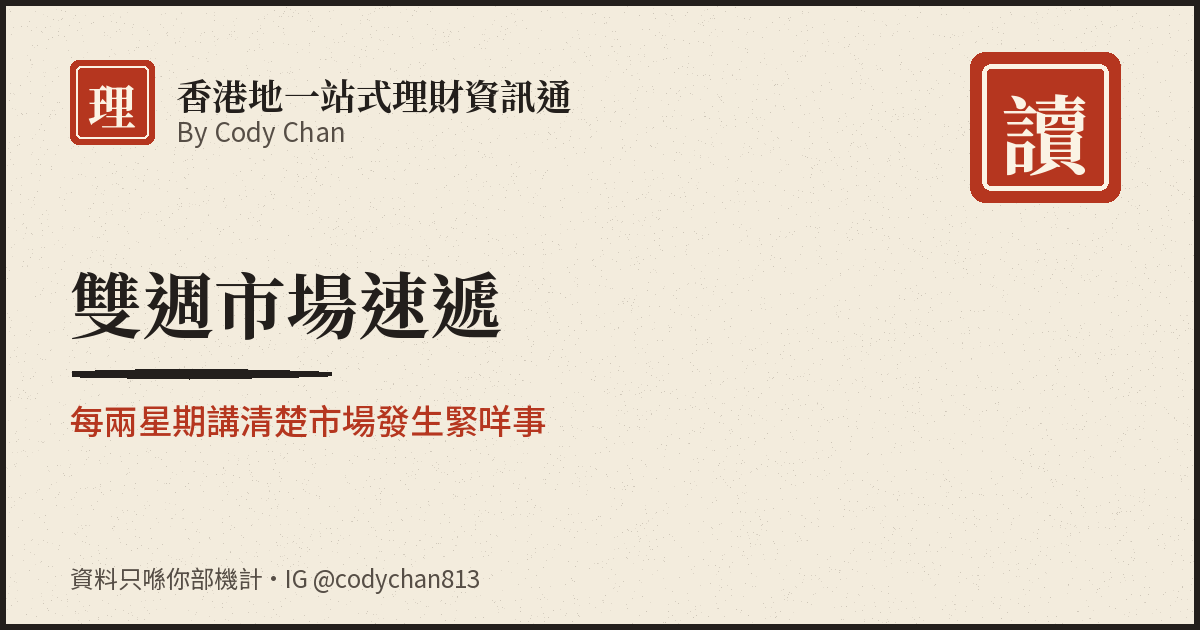
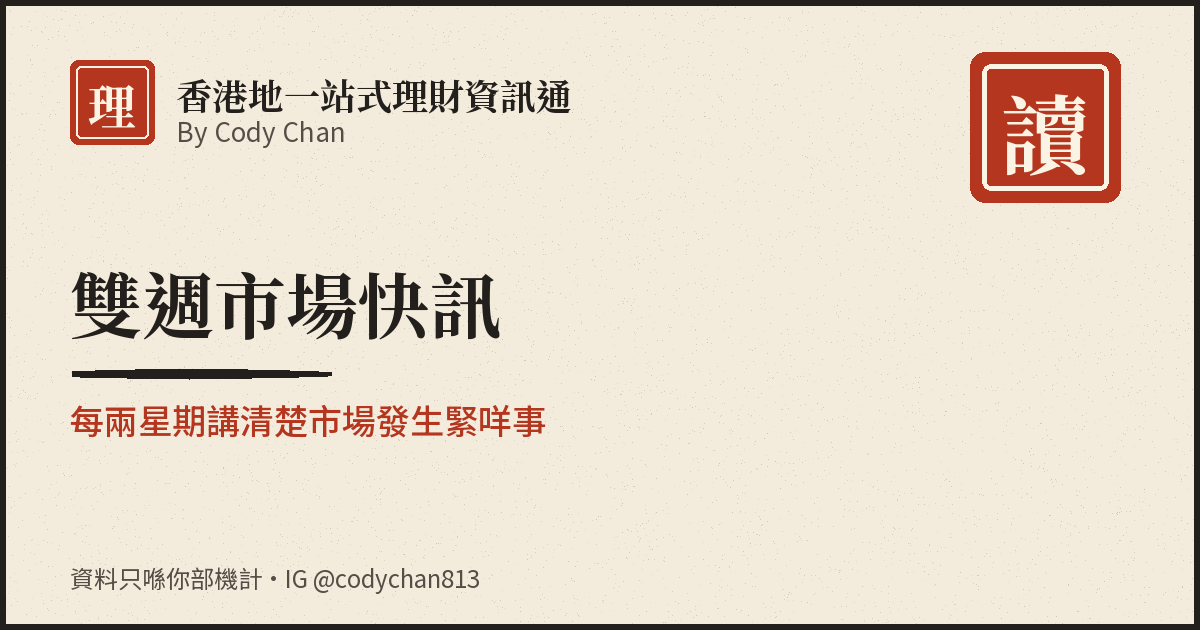
copy: rename market notes to 雙週市場快訊 everywhere

Changed region(s): [[0.2775, 0.4222, 0.4317, 0.5429]]

diff --git a/about/index.html b/about/index.html
@@ -30,7 +30,7 @@
       <ul>
         <li><b>只用可追溯嘅來源：</b>優先引用政府、金管局、積金局、醫管局、衞生署、稅務局等官方資料，以及銀行同發卡機構嘅官方條款；新聞只作輔助，會寫明「經某某報道」。</li>
         <li><b>每個數字都有出處同日期：</b>網站上嘅數字旁邊都會列明來源連結同「資料截至」日期。</li>
-        <li><b>定期更新：</b>信用卡優惠每兩星期重新核實；政府福利每 3 個月核對一次；稅務數字每年財政預算案同刊憲後更新；強積金等法定數字一有改動就更新；雙週市場速遞每兩星期出一期。</li>
+        <li><b>定期更新：</b>信用卡優惠每兩星期重新核實；政府福利每 3 個月核對一次；稅務數字每年財政預算案同刊憲後更新；強積金等法定數字一有改動就更新；雙週市場快訊每兩星期出一期。</li>
         <li><b>過期會提示：</b>資料超過預定檢視日期仍未更新，網頁會自動顯示「資料或已過時」，避免你用舊數字做決定。</li>
         <li><b>唔編造、唔用示例數據：</b>核實唔到嘅資料寧願唔放。</li>
         <li><b>唔推介產品：</b>只提供一般資訊同計算工具，唔收信用卡推介費。</li>

diff --git a/updates/index.html b/updates/index.html
@@ -3,7 +3,7 @@
 <head>
   <meta charset="utf-8">
   <meta name="viewport" content="width=device-width, initial-scale=1, viewport-fit=cover, interactive-widget=resizes-content">
-  <title>雙週市場速遞：用淺白語言講市場｜香港地一站式理財資訊通</title>
+  <title>雙週市場快訊：用淺白語言講市場｜香港地一站式理財資訊通</title>
   <meta name="description" content="每兩星期整理一次環球及香港市場大事：股市、利率、油價、央行議息，唔講術語、唔叫你買邊隻，只講對你荷包嘅影響。">
   <meta name="theme-color" content="#F3ECDD">
   <link rel="stylesheet" href="/assets/css/style.css">
@@ -13,7 +13,7 @@
   <div class="wrap stack">
     <section class="hero">
       <div class="kicker"><span data-seal="讀"></span>市場解讀</div>
-      <h1>雙週市場速遞：每兩星期講清楚市場發生緊咩事</h1>
+      <h1>雙週市場快訊：每兩星期講清楚市場發生緊咩事</h1>
       <p>唔講術語、唔叫你買邊隻，只係幫你理解大環境同對荷包嘅影響。每期都有重點摘要，完整內容可以喺網頁直接睇或者下載 PDF。</p>
     </section>
     <div id="posts" class="stack"><!--POSTS--></div>

diff --git a/index.html b/index.html
@@ -4,7 +4,7 @@
   <meta charset="utf-8">
   <meta name="viewport" content="width=device-width, initial-scale=1, viewport-fit=cover, interactive-widget=resizes-content">
   <title>香港地一站式理財資訊通 By Cody Chan｜香港社會人理財計算工具</title>
-  <meta name="description" content="香港社會人 3 步理財體檢：睇清備用金夠唔夠、月薪扣強積金後每月應該儲幾多、儲 50 萬要幾耐，仲有雙週市場速遞同信用卡回贈整理。">
+  <meta name="description" content="香港社會人 3 步理財體檢：睇清備用金夠唔夠、月薪扣強積金後每月應該儲幾多、儲 50 萬要幾耐，仲有雙週市場快訊同信用卡回贈整理。">
   <meta name="theme-color" content="#F3ECDD">
   <link rel="stylesheet" href="/assets/css/style.css">
 </head>

diff --git a/market/index.html b/market/index.html
@@ -14,7 +14,7 @@
     <section class="hero">
       <div class="kicker"><span data-seal="市"></span>市場指數</div>
       <h1>今日市場點？</h1>
-      <p>恒指、美股、利率、匯率，一眼睇晒。每日自動更新；想知背後發生咩事，可以睇<a href="/updates/">雙週市場速遞</a>。</p>
+      <p>恒指、美股、利率、匯率，一眼睇晒。每日自動更新；想知背後發生咩事，可以睇<a href="/updates/">雙週市場快訊</a>。</p>
     </section>
     <div id="groups" class="stack"><div class="card center muted">載入中……</div></div>
     <p class="muted" style="font-size:13px" id="last-run"></p>

diff --git a/scripts/make_images.py b/scripts/make_images.py
@@ -27,7 +27,7 @@ CARDS = {
                "A 2-minute check-up|for your finances", "Money health check: 10 quick questions"),
     "insurance": ("保", "睇病要幾錢？|醫療費升緊幾多？", "公立醫院收費・醫療通脹・癌症數字",
                   "What does getting|sick cost in Hong Kong?", "Hospital fees · medical inflation · cancer facts"),
-    "updates": ("讀", "雙週市場速遞", "每兩星期講清楚市場發生緊咩事",
+    "updates": ("讀", "雙週市場快訊", "每兩星期講清楚市場發生緊咩事",
                 "Fortnightly market notes", "What moved markets, in plain language"),
     "market": ("市", "今日市場點？", "恒指・美股・HIBOR・匯率 每日更新",
                "How are markets today?", "Hang Seng · US stocks · HIBOR · FX, daily"),

diff --git a/如何更新內容.md b/如何更新內容.md
@@ -64,7 +64,7 @@
 
 強積金入息上下限（而家 $7,100／$30,000）。**積金局正檢討上下限**，一旦落實，改 `minRelevantIncome`、`maxRelevantIncome` 兩個數字，月薪計算器就會自動跟住改。改完記得更新 `verifiedOn`。
 
-## 5. 雙週市場速遞 PDF（人手，`content/updates/` 加 `data/updates.json`）
+## 5. 雙週市場快訊 PDF（人手，`content/updates/` 加 `data/updates.json`）
 
 每兩星期兩步（或者直接將 PDF 交俾 Claude 幫你放）：
 
@@ -77,7 +77,7 @@
   "date": "2026-11-02",
   "dataAsOf": "2026-11-01",
   "period": "2026-10-19 至 2026-10-30",
-  "title": "雙週市場速遞：（呢期標題）",
+  "title": "雙週市場快訊：（呢期標題）",
   "summary": "一兩句重點，會喺列表、首頁同搜尋結果顯示",
   "highlights": ["重點一", "重點二", "重點三"],
   "file": "/content/updates/2026-11-02.pdf",
